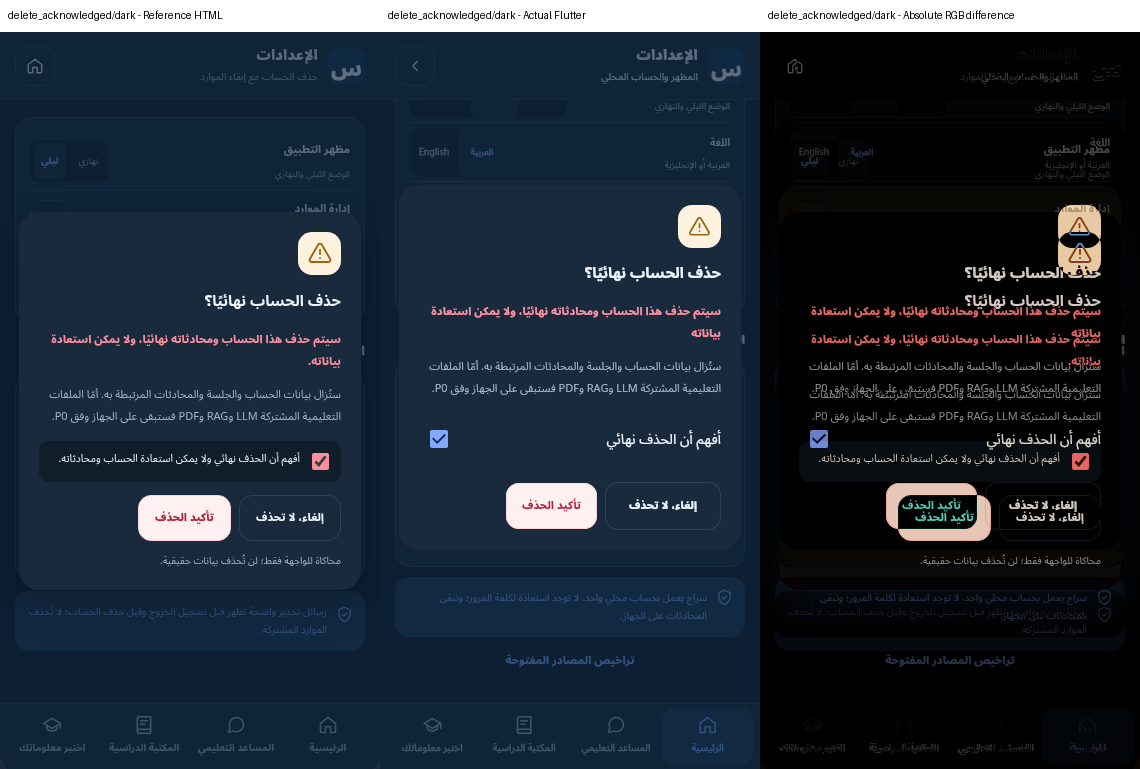
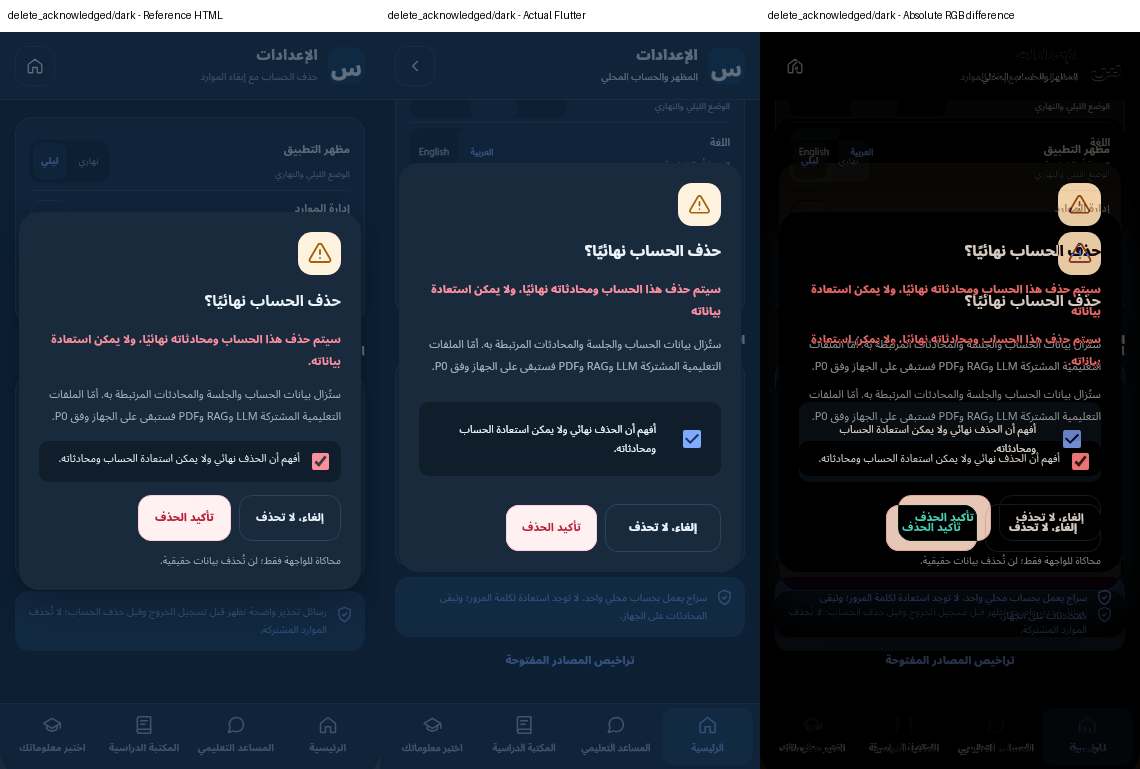
Match V2 deletion acknowledgement placement and warning detail

diff --git a/lib/features/settings/settings_page.dart b/lib/features/settings/settings_page.dart
@@ -117,16 +117,25 @@ class SettingsPage extends StatelessWidget {
                     ),
                   ),
                 if (delete)
-                  CheckboxListTile(
-                    key: const Key('delete-account-checkbox'),
-                    contentPadding: EdgeInsets.zero,
-                    value: checked,
-                    onChanged: (value) =>
-                        setState(() => checked = value == true),
-                    title: Text(
-                      context.copy(
-                        'أفهم أن الحذف نهائي',
-                        'I understand deletion is permanent',
+                  Padding(
+                    padding: const EdgeInsets.symmetric(vertical: 13),
+                    child: CheckboxListTile(
+                      key: const Key('delete-account-checkbox'),
+                      controlAffinity: ListTileControlAffinity.leading,
+                      contentPadding: const EdgeInsets.all(9),
+                      tileColor: Theme.of(context).scaffoldBackgroundColor,
+                      shape: RoundedRectangleBorder(
+                        borderRadius: BorderRadius.circular(10),
+                      ),
+                      value: checked,
+                      onChanged: (value) =>
+                          setState(() => checked = value == true),
+                      title: Text(
+                        context.copy(
+                          'أفهم أن الحذف نهائي ولا يمكن استعادة الحساب ومحادثاته.',
+                          'I understand deletion is permanent and the account and its conversations cannot be recovered.',
+                        ),
+                        style: const TextStyle(fontSize: 10.5, height: 1.8),
                       ),
                     ),
                   ),

diff --git a/test/v2_review_regression_test.dart b/test/v2_review_regression_test.dart
@@ -118,6 +118,10 @@ void main() {
           await t.pumpWidget(
             MaterialApp(
               theme: dark ? SirajTheme.dark() : SirajTheme.light(),
+              builder: (context, child) => Directionality(
+                textDirection: TextDirection.rtl,
+                child: child!,
+              ),
               home: Directionality(
                 textDirection: TextDirection.rtl,
                 child: SettingsPage(session: session, onOpenResources: () {}),
@@ -147,6 +151,24 @@ void main() {
           await t.tap(find.byKey(const Key('settings-delete')));
           await t.pumpAndSettle();
           expect(find.textContaining('LLM وRAG وPDF'), findsOneWidget);
+          final acknowledgement = find.byKey(
+            const Key('delete-account-checkbox'),
+          );
+          final checkbox = find.descendant(
+            of: acknowledgement,
+            matching: find.byType(Checkbox),
+          );
+          final warning = find.descendant(
+            of: acknowledgement,
+            matching: find.text(
+              'أفهم أن الحذف نهائي ولا يمكن استعادة الحساب ومحادثاته.',
+            ),
+          );
+          expect(warning, findsOneWidget);
+          expect(
+            t.getCenter(checkbox).dx,
+            greaterThan(t.getCenter(warning).dx),
+          );
           expect(
             t
                 .widget<FilledButton>(

diff --git a/docs/design/visual_closure_2026-10-30/README_AR.md b/docs/design/visual_closure_2026-10-30/README_AR.md
@@ -16,7 +16,7 @@
 | Library | بحث وتصنيف للفهرس المحقون فقط، أغلفة66×93، بادجات الحالة وأزرار بحسب قدرات الخدمة | [حالة فهرس اختبار](library_catalog-light-380x737-comparison.png). لا كتب HTML الثلاثة كموارد إنتاجية؛ لا فتح غير متحقق |
 | Resources/diagnostics | أيقونات وبنية بطاقات موحدة، حالة غياب فعلية، رسائل من الأخطاء المصنفة بدل اختيار سبب وهمي | [الموارد](resources-light-380x737-comparison.png)، [تشخيص اختبار](diagnostics-light-380x737-comparison.png). لا نسب تنزيل أو READY مخترعة |
 | Quiz setup/run/review/result | أنواع P0 الأربعة، خيارات بإطارات وأحرف، تقدم حقيقي، ملخص من فهرس موثوق مربوط بهوية جلسة الاختبار، مراجعة وتأكيد، مقام يستبعد UNDETERMINED | [MCQ](quiz_mcq-light-380x737-comparison.png)، [TF](quiz_trueFalse-dark-370x683-comparison.png)، [كتابي](quiz_shortAnswer-light-380x737-comparison.png)، [مراجعة](quiz_review-light-380x737-comparison.png)، [نتيجة](quiz_result-light-380x737-comparison.png). لا Bank/Mixed أو SQLite للمحاولات |
-| Logout/Delete | حوار بزوايا وأيقونة وتنبيه وأزرار المرجع، إقرار الحذف الإلزامي، مفاتيح الإجراءات ثابتة | [خروج](logout-light-380x737-comparison.png)، [حذف](delete-dark-380x737-comparison.png)؛ اختبارات إلغاء الجلسة والحوارات مستمرة |
+| Logout/Delete | حوار بزوايا وأيقونة وتنبيه وأزرار المرجع، إقرار الحذف الإلزامي، مفاتيح الإجراءات ثابتة | [خروج](logout-light-380x737-comparison.png)، [حذف](delete-dark-380x737-comparison.png)؛ صُححت محاذاة مربع الإقرار إلى اليمين في RTL، والنص الكامل والخلفية/الزوايا وفق المرجع؛ اختبار هندسي فعلي بالثيمين، مع بقاء شرط الإقرار والإلغاء |
 | Android identity | Launcher بخمس كثافات وAdaptive وSplash قبل/بعد Android12، اسم SIRAJ، مصدر واحد للهوية داخل Flutter وAndroid | [سجل الهوية](../../../assets/branding/README_AR.md). استُبدلت أيقونة Flutter بمونوغرام V2 **المؤقت**؛ الشعار الرسمي لم يُسلّم بعد |
 
 ## طريقة الإثبات
@@ -35,8 +35,9 @@
 3. **المحتوى المختلف ظاهر في الفرق**: نُبقي غياب الفهرس/الموارد والأخطاء الفعلية، ولا نساويها بكتب أو نتائج توضيحية. صور حالات الاختبار معلمة في JSON. إعداد سؤال حقيقي ومصادره يحتاج الموارد المتوافقة وAndroid الحقيقي.
 4. **حدود محرك الرسم**: الأوزان وارتفاعات الأسطر وSVG مشتقة من المرجع، لكن Chromium وFlutter يختلفان في تنعيم النص والظلال. تبقى الفروق مرئية في PNG؛ لا عتبة قبول مُختلقة أو حكم شامل بالمطابقة البكسلية.
 5. **مرجع Chat يحتوي SVG History غير محدد المقاس**، فيمدد سطر الحالة في HTML؛ Flutter يحدد18dp ويحافظ على48dp للمس. لا ننقل هذا التمدد العرضي أو زر «محاكاة إجابة» إلى مسار الإنتاج. لا نرسم OS bars مزيفة أو تبويبات خاصة قبل تسجيل الدخول.
-6. **حدود اللمس**: بعض الأزرار في HTML39 أو46px؛ تبقى مساحة اللمس48dp. القياسات المرئية الأساسية موثقة، ولا نضغط مساحة اللمس لتصفير فرق الصورة.
+6. **بنية الحوارات**: يبقى `useRootNavigator:false` في Settings وفق بنية التنقل الحالية؛ تختلف مركزية الحوار داخل هذا Navigator عن modal يغطي إطار HTML كله. لا نغير بنية الجلسة لإخفاء فرق الصورة. ولا ننسخ عبارة «محاكاة فقط» من النموذج إلى حذف فعلي.
+7. **حدود اللمس**: بعض الأزرار في HTML39 أو46px؛ تبقى مساحة اللمس48dp. القياسات المرئية الأساسية موثقة، ولا نضغط مساحة اللمس لتصفير فرق الصورة.
 
-أُعيد توليد اللوحات المئة من آخر Goldens بعد تصحيح عناوين الشاشات وألوان teal/scrim وتحذيرات الحذف. نجحت المجموعة المحلية609/0/0 والتحليل. تبقى فروق مثل تشكيل الظلال وترتيب Checkbox ومحتوى الحوارات/البيانات ظاهرة في لوحات الفرق، ولا تُسجّل كإغلاق بكسلي تام.
+أُعيد توليد اللوحات المئة من آخر Goldens بعد تصحيح عناوين الشاشات وألوان teal/scrim وتحذيرات الحذف ومحاذاة الإقرار ونصه. نجحت المجموعة المحلية609/0/0 والتحليل. تبقى فروق مثل تشكيل الظلال وتموضع الحوار داخل Navigator الحالي ومحتوى البيانات ظاهرة في لوحات الفرق، ولا تُسجّل كإغلاق بكسلي تام.
 
 الحكم: الفروق البنيوية المدرجة أعلاه عولجت برمجيًا واختُبرت؛ **اعتماد المطابقة البصرية النهائية باقٍ** إلى حين أصل الهوية ومراجعة المقارنات واختبار Samsung. بوابات الموارد والتوقيع وAuth الإنتاجي وG2/G3 مستقلة عن نجاح Goldens.

diff --git a/docs/qa/UIUX_V2_CLOSURE_2026-10-30_AR.md b/docs/qa/UIUX_V2_CLOSURE_2026-10-30_AR.md
@@ -43,7 +43,7 @@ Pillow وPlaywright وChromium أدوات تطوير/مراجعة فقط. فاح
 
 ## النتائج والأخطاء
 
-`flutter pub get --enforce-lockfile` نجح، و`flutter analyze --no-pub` بلا ملاحظات. آخر تشغيل كامل بعد تعديلات الألوان والعناوين والحوارات نجح **609/0/0**، مع stderr فارغ. قبله نجح تشغيلان معزولان كاملان بالعدد نفسه، وقبل اختبارات المراجعة الأربعة كان العدد605. اختبارات الانحدار الأربعة أُثبتت RED→GREEN، واختبارات مولد Android الخمسة ناجحة. [السجل الآلي](v2_closure_host_results_2026-10-30.json) يحفظ النجاح الأخير والإخفاق التاريخي بصورة منفصلة.
+`flutter pub get --enforce-lockfile` نجح، و`flutter analyze --no-pub` بلا ملاحظات. آخر تشغيل كامل بعد تعديلات الألوان والعناوين والحوارات وإقرار الحذف نجح **609/0/0**، مع stderr فارغ. قبله نجح تشغيلان معزولان كاملان بالعدد نفسه، وقبل اختبارات المراجعة الأربعة كان العدد605. اختبارات الانحدار الأربعة أُثبتت RED→GREEN، واختبارات مولد Android الخمسة ناجحة. [السجل الآلي](v2_closure_host_results_2026-10-30.json) يحفظ النجاح الأخير والإخفاق التاريخي بصورة منفصلة.
 
 أظهرت المراجعة أن أوامر Flutter مستقلة تداخلت سابقًا داخل worktree واحد، وتشترك في `build/unit_test_assets`. هذا يعرّض نسخ أصول الخطوط والصور للتداخل أثناء استخدامها. أُوقف التداخل ثم نجحت المجموعات الكاملة المعزولة؛ **هذا تفسير مدعوم للتشغيل وليس إثباتًا لسبب SIGSEGV الأصلي**. تبقى [رسالة المحرك الأصلية](v2_closure_local_engine_failure.txt) محفوظة، والمحاولة التاريخية606/4/0 فاشلة. لا اختبارات محذوفة أو تخطٍ أو retry يخفي الفشل. يجب عدم تشغيل أوامر Flutter متزامنة في worktree نفسه؛ تبقى اختبارات تزامن التطبيق دون تغيير.
 
@@ -67,3 +67,5 @@ PR #12 لا يُدمج ضمن هذا التكليف. الخطوة التالية
 ## المراجعتان المستقلتان والتصحيحات
 
 راجعت Standards وSpec بصورة معزولة المقارنة `79ba311...42dd60c`، ثم أعادتا فحص التصحيحات. محور المعمارية أثبت احتفاظ الواجهة بمرجع QuizSession وانتهى إلى إغلاقه برمز هوية معتم. محور المواصفة أثبت ثلاثة فروق إضافية: زر History في سطر البطاقة بدل أسفلها، تحذيرات/أيقونات الحوارات، وألوان danger في الوضع الداكن. أغلقت الثلاثة، وأضيفت اختبارات RED ثم GREEN للأربعة. تأكد المراجعان من الإغلاق دون العثور على مشكلة جديدة في التعديلات المصححة. لا تُخلط نتيجة المعمارية بالموافقة البصرية الشاملة.
+
+تصحيح نهائي مثبت من المقارنة: مربع إقرار الحذف أصبح logical leading (يمين النص العربي)، مع نص عدم الاستعادة الكامل وخلفية المرجع وزواياه ومسافاته. فشل الاختبار قبل التعديل بالثيمين ثم نجح4/4؛ يقيس موضع Checkbox والنص داخل اتجاه RTL يشمل Navigator، ويبقي assertion تعطيل التأكيد قبل الإقرار. المراجعتان أعادتا فحص هذا التعديل دون عيب جديد. لا تغيير في Navigator أو boolean الإقرار أو الحذف الفعلي.

diff --git a/docs/superpowers/plans/2026-10-29-v2-fidelity-closure.md b/docs/superpowers/plans/2026-10-29-v2-fidelity-closure.md
@@ -73,3 +73,5 @@ Primary and remaining presentation changes implemented, 142 golden images and100
 609 local host tests passed with zero failures/skips and clean analysis after final palette/header/dialog changes; 142 golden PNG and100 same-viewport panels regenerated and SHA-linked. Two independent reviews completed, including opaque Quiz identity and actual History/dialog regressions. Historical native Flutter engine crashes remain documented; separate concurrent Flutter commands sharing unit_test_assets are prohibited, without claiming a proven native root cause.
 
 CI9904b4f built the normal-main APK and passed compiled launcher/adaptive/splash verification plus11 native KDF/PDF tests, but application Logout tap was outside320x640; restart targets did not run. Apply existing bounded UnifiedFlow helper to all application target taps; final fresh CI must execute all five native targets and package only on full success. Official logo, final pixel acceptance, Samsung, production resources/G2/G3 remain blocked and outside a success claim.
+
+Final comparison correction: RTL deletion acknowledgement now matches logical leading placement/full text/background/radius, with real geometry assertion RED→GREEN in both themes. No further presentation changes planned; refresh exact-SHA full verification and CI after this scoped correction.
